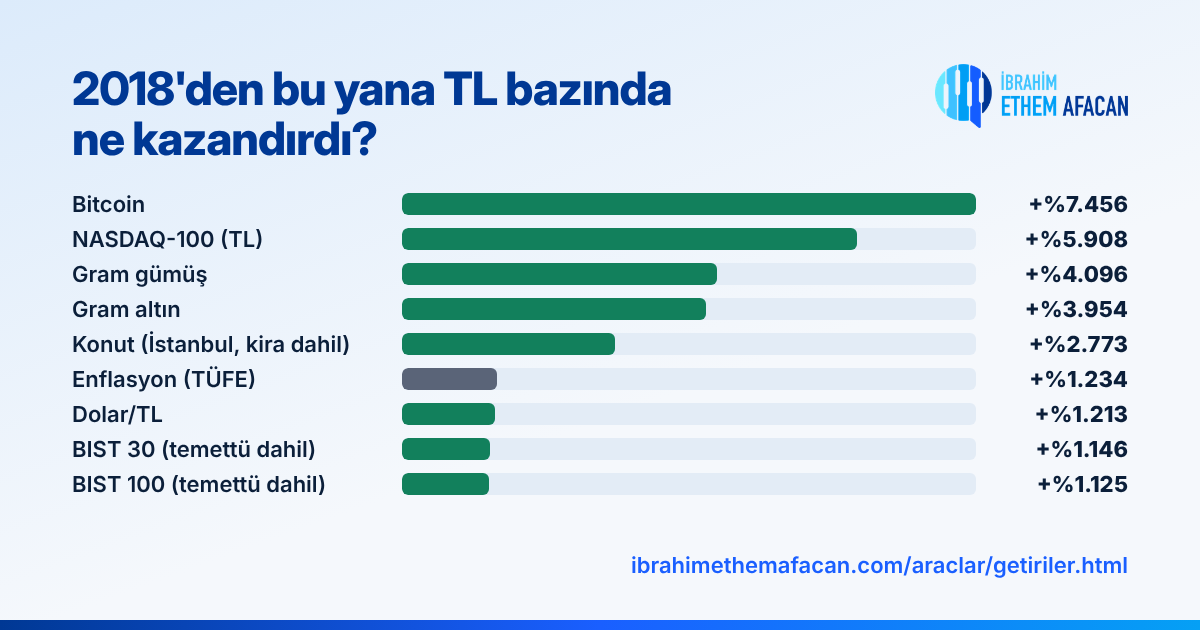
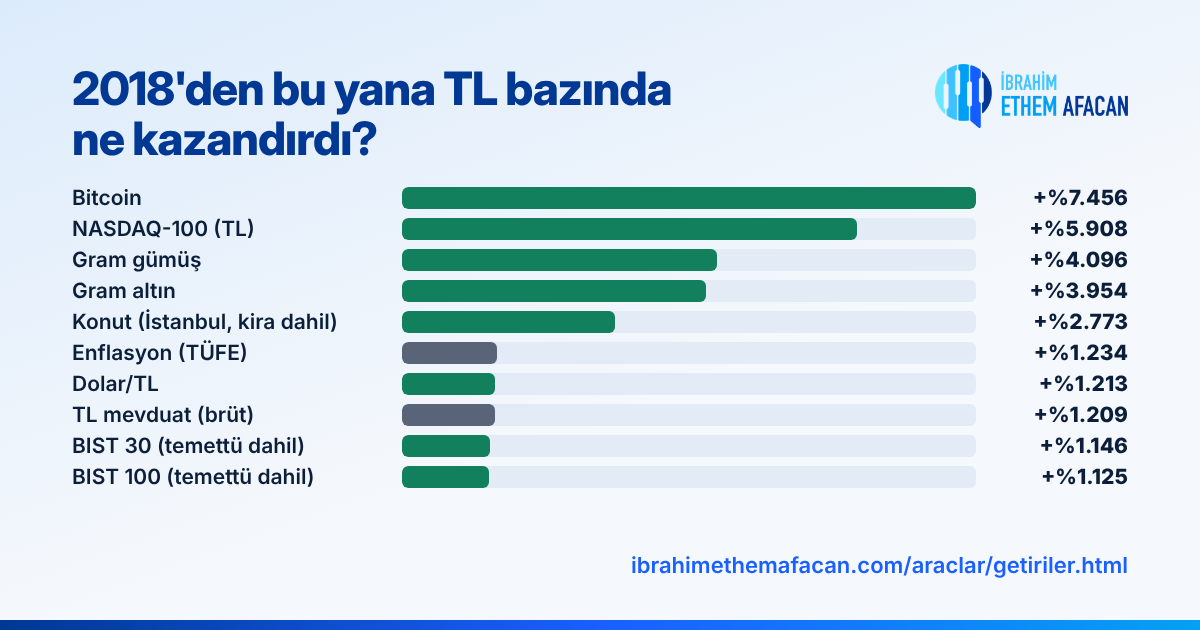
Getiriler: TL mevduat (brüt) karşılaştırma satırı eklendi
Claude-Session: https://claude.ai/code/session_013mrGbpFadh1h9epcSoKPzq

Changed region(s): [[0.0617, 0.2714, 0.8325, 0.7841], [0.8325, 0.3016, 0.9558, 0.7841], [0.3392, 0.7238, 0.4317, 0.7841]]

diff --git a/araclar/getiriler.html b/araclar/getiriler.html
@@ -4,21 +4,21 @@
   <meta charset="utf-8">
   <meta name="viewport" content="width=device-width, initial-scale=1">
   <title>Yatırım Araçlarının Getirileri — İbrahim Ethem Afacan</title>
-  <meta name="description" content="2018'den bu yana TL bazında gram altın, gram gümüş, BIST 100 ve BIST 30 (temettü dahil), NASDAQ-100, dolar/TL, bitcoin ve İstanbul'da konutun (kira dahil) enflasyonla karşılaştırmalı yıllık ve kümülatif getirileri.">
+  <meta name="description" content="2018'den bu yana TL bazında gram altın, gram gümüş, BIST 100 ve BIST 30 (temettü dahil), NASDAQ-100, dolar/TL, bitcoin ve İstanbul'da konutun (kira dahil) mevduat ve enflasyonla karşılaştırmalı yıllık ve kümülatif getirileri.">
   <meta property="og:type" content="website">
   <meta property="og:site_name" content="İbrahim Ethem Afacan">
   <meta property="og:locale" content="tr_TR">
   <meta property="og:title" content="Yatırım Araçlarının Getirileri: 2018'den bu yana TL bazında ne kazandırdı?">
-  <meta property="og:description" content="2018'den bu yana TL bazında gram altın, gram gümüş, BIST 100 ve BIST 30 (temettü dahil), NASDAQ-100, dolar/TL, bitcoin ve İstanbul'da konutun (kira dahil) enflasyonla karşılaştırmalı yıllık ve kümülatif getirileri.">
+  <meta property="og:description" content="2018'den bu yana TL bazında gram altın, gram gümüş, BIST 100 ve BIST 30 (temettü dahil), NASDAQ-100, dolar/TL, bitcoin ve İstanbul'da konutun (kira dahil) mevduat ve enflasyonla karşılaştırmalı yıllık ve kümülatif getirileri.">
   <meta property="og:url" content="https://ibrahimethemafacan.com/araclar/getiriler.html">
-  <meta property="og:image" content="https://ibrahimethemafacan.com/img/og-getiriler.png?v=4">
+  <meta property="og:image" content="https://ibrahimethemafacan.com/img/og-getiriler.png?v=5">
   <meta property="og:image:width" content="1200">
   <meta property="og:image:height" content="630">
   <meta name="twitter:card" content="summary_large_image">
   <meta name="twitter:site" content="@ibrahim___ethem">
   <meta name="twitter:title" content="Yatırım Araçlarının Getirileri: 2018'den bu yana TL bazında ne kazandırdı?">
-  <meta name="twitter:description" content="2018'den bu yana TL bazında gram altın, gram gümüş, BIST 100 ve BIST 30 (temettü dahil), NASDAQ-100, dolar/TL, bitcoin ve İstanbul'da konutun (kira dahil) enflasyonla karşılaştırmalı yıllık ve kümülatif getirileri.">
-  <meta name="twitter:image" content="https://ibrahimethemafacan.com/img/og-getiriler.png?v=4">
+  <meta name="twitter:description" content="2018'den bu yana TL bazında gram altın, gram gümüş, BIST 100 ve BIST 30 (temettü dahil), NASDAQ-100, dolar/TL, bitcoin ve İstanbul'da konutun (kira dahil) mevduat ve enflasyonla karşılaştırmalı yıllık ve kümülatif getirileri.">
+  <meta name="twitter:image" content="https://ibrahimethemafacan.com/img/og-getiriler.png?v=5">
   <link rel="icon" href="/favicon.ico" sizes="any">
   <link rel="icon" type="image/png" sizes="32x32" href="/img/favicon-32.png">
   <link rel="icon" type="image/png" sizes="192x192" href="/img/favicon-192.png">
@@ -27,7 +27,7 @@
   <link rel="preconnect" href="https://fonts.gstatic.com" crossorigin>
   <link href="https://fonts.googleapis.com/css2?family=Literata:opsz,wght@7..72,400;7..72,500&family=Manrope:wght@500;600;700;800&display=swap" rel="stylesheet">
   <link rel="stylesheet" href="/style.css?v=20261024f">
-  <style>.rt-tabs{flex-wrap:nowrap;overflow-x:auto;scrollbar-width:none;gap:0}.rt-tabs::-webkit-scrollbar{display:none}.konut-go{align-self:center;margin-left:.4rem;white-space:nowrap;font-family:var(--sans);font-size:.75rem;font-weight:700;color:#fff;background:var(--accent);border-radius:999px;padding:.3rem .7rem;text-decoration:none}.konut-go:hover{background:var(--navy)}.konut-go[hidden]{display:none}.konut-btn{display:inline-block;font-family:var(--sans);font-weight:700;font-size:.95rem;color:#fff;background:var(--accent);border-radius:.6rem;padding:.75rem 1.1rem;text-decoration:none}.konut-btn:hover{background:var(--navy)}.rt-tabs button{white-space:nowrap;flex:0 0 auto;padding-left:.55rem;padding-right:.55rem;font-size:.875rem}</style>
+  <style>.rt-tabs{flex-wrap:nowrap;overflow-x:auto;scrollbar-width:none;gap:0}.rt-tabs::-webkit-scrollbar{display:none}.konut-go{align-self:center;margin-left:.4rem;white-space:nowrap;font-family:var(--sans);font-size:.75rem;font-weight:700;color:#fff;background:var(--accent);border-radius:999px;padding:.3rem .7rem;text-decoration:none}.konut-go:hover{background:var(--navy)}.konut-go[hidden]{display:none}.konut-btn{display:inline-block;font-family:var(--sans);font-weight:700;font-size:.95rem;color:#fff;background:var(--accent);border-radius:.6rem;padding:.75rem 1.1rem;text-decoration:none}.konut-btn:hover{background:var(--navy)}.rt-tabs button{white-space:nowrap;flex:0 0 auto;padding-left:.45rem;padding-right:.45rem;font-size:.85rem}</style>
 </head>
 <body>
   <header class="site-head">
@@ -66,7 +66,7 @@
 
     <article class="prose">
       <h2>Notlar</h2>
-      <p>2026 satırı yıl başından 26 Ekim 2026'ya kadarki dönemi kapsar. NASDAQ-100 ve bitcoin için 26 Ekim akşamki fiyat kullanılmıştır. Kümülatif getiri, yıllık getirilerin bileşik olarak çarpılmasıyla bulunur; bu yüzden yıllık oranların basit toplamından farklıdır. BIST 100 ve BIST 30 getirileri temettüler dahil hesaplanmıştır. NASDAQ-100, endeks puanının dolar/TL kuruyla çarpılmasıyla TL'ye çevrilmiştir; temettüler hariçtir. Gram altın GLDGR kapanışlarından, gram gümüş ise XAGTRY (ons gümüş/TL) kapanışlarının 31,1035'e bölünerek grama çevrilmesiyle hesaplanmıştır. Bitcoin'in yıl sonu değeri, yılın son günündeki BTC/USDT kapanışının dolar/TL kuruyla çarpılmasıyla bulunmuştur. Konut getirisi, İstanbul konut fiyatlarındaki değişim (TCMB Konut Fiyat Endeksi) ile brüt kira getirisinin toplamıdır. Kira getirisi, TCMB'nin İstanbul'da değerlemesi yapılan konutlara ait birim kira ve birim fiyat verilerinden hesaplanmıştır; aidat, vergi ve boş kalma süresi gibi masraflar hariçtir. Enflasyon, TÜİK'in açıkladığı tüketici fiyat endeksinin (TÜFE) Aralıktan Aralığa değişimidir; 2026 satırı Eylül 2026'ya kadarki değişimi gösterir. Geçmiş getiriler gelecekteki getirilerin göstergesi değildir.</p>
+      <p>2026 satırı yıl başından 26 Ekim 2026'ya kadarki dönemi kapsar. NASDAQ-100 ve bitcoin için 26 Ekim akşamki fiyat kullanılmıştır. Kümülatif getiri, yıllık getirilerin bileşik olarak çarpılmasıyla bulunur; bu yüzden yıllık oranların basit toplamından farklıdır. BIST 100 ve BIST 30 getirileri temettüler dahil hesaplanmıştır. NASDAQ-100, endeks puanının dolar/TL kuruyla çarpılmasıyla TL'ye çevrilmiştir; temettüler hariçtir. Gram altın GLDGR kapanışlarından, gram gümüş ise XAGTRY (ons gümüş/TL) kapanışlarının 31,1035'e bölünerek grama çevrilmesiyle hesaplanmıştır. Bitcoin'in yıl sonu değeri, yılın son günündeki BTC/USDT kapanışının dolar/TL kuruyla çarpılmasıyla bulunmuştur. Konut getirisi, İstanbul konut fiyatlarındaki değişim (TCMB Konut Fiyat Endeksi) ile brüt kira getirisinin toplamıdır. Kira getirisi, TCMB'nin İstanbul'da değerlemesi yapılan konutlara ait birim kira ve birim fiyat verilerinden hesaplanmıştır; aidat, vergi ve boş kalma süresi gibi masraflar hariçtir. TL mevduat getirisi, TCMB'nin açıkladığı 3 aya kadar vadeli TL mevduat faizlerinin (ağırlıklı ortalama, akım) aylık ortalamalarıyla, mevduatın her üç ayda bir yenilendiği varsayılarak hesaplanmıştır; stopaj öncesi brüt getiridir. Enflasyon, TÜİK'in açıkladığı tüketici fiyat endeksinin (TÜFE) Aralıktan Aralığa değişimidir; 2026 satırı Eylül 2026'ya kadarki değişimi gösterir. Geçmiş getiriler gelecekteki getirilerin göstergesi değildir.</p>
     </article>
   </main>
 
@@ -106,6 +106,10 @@
         star: '* Eylül 2026 itibarıyla (TCMB\'nin açıkladığı son veri; kira dokuz aylık). ',
         foot: 'İstanbul konut fiyat değişimi (TCMB) ile brüt kira getirisinin toplamıdır. Vergi ve masraflar hariçtir.',
         rows: [[2018,6.2,6.2],[2019,9.3,16.1],[2020,33.3,54.7],[2021,73.9,169.0],[2022,174.5,638.5],[2023,72.3,1172],[2024,31.9,1579],[2025,35.5,2175],['2026*',26.3,2773]] },
+      { id: 'mevduat', name: 'TL mevduat (brüt)', tab: 'Mevduat', color: '#8A94A6', bench: true,
+        star: '* 26 Ekim 2026 itibarıyla (faiz verisi 16 Ekim haftasına kadar). ',
+        foot: '3 aya kadar vadeli TL mevduatın her vade sonunda yenilendiği varsayılmıştır. Stopaj öncesi brüt getiridir.',
+        rows: [[2018,19.3,19.3],[2019,20.1,43.2],[2020,11.2,59.2],[2021,19.4,90.1],[2022,20.4,128.8],[2023,40.2,220.8],[2024,73.2,455.7],[2025,64.2,812.4],['2026*',43.5,1209]] },
       { id: 'tufe', name: 'Enflasyon (TÜFE)', tab: 'Enflasyon', color: '#8A94A6', bench: true,
         star: '* Eylül 2026 itibarıyla (TÜİK\'in açıkladığı son veri). ',
         foot: 'Bir aracın kümülatif getirisi buradaki kümülatif enflasyondan yüksekse, o araç dönem boyunca enflasyonu yenmiştir.',
